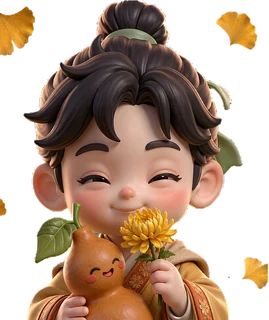
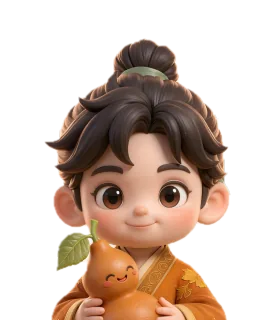
v119: 药童四季皮肤换为可灵AI新图;删四季动作图(约4MB)改复用经典动图;空闲预载优化换肤卡顿

diff --git a/common.js b/common.js
@@ -1842,17 +1842,19 @@ function mountPage(p){
 }
 function go(p){location.href=(p==="home"?"index":p)+".html";}
 
-/* ===== 小药童：春夏秋冬装束 + 每套专属待机 / 互动动作 + 点击互动 ===== */
+/* ===== 小药童：经典 + 春夏秋冬四季换装（AI 换装静图，点击互动共用经典动作） ===== */
 (function(){
-  /* 五套装束：经典为初见默认，四季各有一张待机图与一段 60 帧专属动作。
-     四季图由 .ai-build/gen-mascot-skins.py 从经典原图程序化换装生成，角色完全一致。 */
+  /* 五套装束：经典为初见默认；四季是 AI 换装静图，裁成与经典相同的 269×320 半身构图，
+     显示位置 / 大小 / 头身比与原经典药童一致。v119 起删除四季各自的 60 帧动作图，
+     点击互动统一复用经典动作图 mascot-anim.webp —— 全站只剩一段动作，彻底消除换肤卡顿。 */
   const SKINS={
-    classic:{idle:"assets/mascot-idle.webp",   act:"assets/mascot-anim.webp",        name:"经典",      season:null},
-    spring: {idle:"assets/skin-spring-idle.webp",act:"assets/skin-spring-act.webp", name:"春 · 发陈", season:"春"},
-    summer: {idle:"assets/skin-summer-idle.webp",act:"assets/skin-summer-act.webp", name:"夏 · 蕃秀", season:"夏"},
-    autumn: {idle:"assets/skin-autumn-idle.webp",act:"assets/skin-autumn-act.webp", name:"秋 · 容平", season:"秋"},
-    winter: {idle:"assets/skin-winter-idle.webp",act:"assets/skin-winter-act.webp", name:"冬 · 闭藏", season:"冬"}
+    classic:{idle:"assets/mascot-idle.webp",   name:"经典",      season:null},
+    spring: {idle:"assets/skin-spring-idle.webp", name:"春 · 发陈", season:"春"},
+    summer: {idle:"assets/skin-summer-idle.webp", name:"夏 · 蕃秀", season:"夏"},
+    autumn: {idle:"assets/skin-autumn-idle.webp", name:"秋 · 容平", season:"秋"},
+    winter: {idle:"assets/skin-winter-idle.webp", name:"冬 · 闭藏", season:"冬"}
   };
+  const ACT_SRC="assets/mascot-anim.webp"; // 唯一动作素材：经典动图，五套共用
   const ACT_MS=5100; // 60帧×83ms≈5s，留一点余量
   const TIPS=[
     "上工治未病，不治已病。——《黄帝内经》",
@@ -1875,16 +1877,15 @@ function go(p){location.href=(p==="home"?"index":p)+".html";}
   const img=$("#mascot"),bubble=$("#mascotBubble"),hint=$("#mascotHint");
   if(!img)return;
   let acting=false,actTimer=null,tipTimer,hintShown=false,tipSkin=null,curSkin="classic";
-  /* 动作 WebP（每套 60 帧 / 83ms / 约 0.5-0.7MB）各自按需加载：
-     首屏只请求经典待机图，换到哪一套才取哪一段动作，绝不一次性拉四套。 */
-  const actLoaded={};
-  function preloadSkinAct(key){
-    if(actLoaded[key])return;
-    actLoaded[key]=true;
-    const pre=new Image();pre.src=SKINS[key].act;
+  /* v119 卡顿治理：四张换装静图各约 10KB，进页即全部预载 → 换肤零等待、无白闪；
+     经典动作图 516KB 在首屏渲染后空闲预载一次，全站共用，点击时已就绪。
+     不再有「悬停即拉 1MB 四季动作图」与「点击解码 60 帧」的双重卡顿。 */
+  function preloadMascotAssets(){
+    Object.keys(SKINS).forEach(k=>{const p=new Image();p.src=SKINS[k].idle;});
+    const a=new Image();a.src=ACT_SRC;
   }
-  function preloadAct(){preloadSkinAct(curSkin);}
-  if(img){img.addEventListener("pointerenter",preloadAct,{once:true});img.addEventListener("touchstart",preloadAct,{once:true});}
+  if(window.requestIdleCallback)requestIdleCallback(preloadMascotAssets,{timeout:1500});
+  else setTimeout(preloadMascotAssets,900);
 
   /* 经典 = 一键复原：药童回经典装，页面主色 / 飘落物 / 插画 / 荐读回到当令真实节气 */
   function restoreSeason(){
@@ -1914,7 +1915,7 @@ function go(p){location.href=(p==="home"?"index":p)+".html";}
     }
     syncButtons();
     tipSkin=null;                        // 换装后首次互动必出该皮肤专属金句
-    /* v98: 换肤只换图,不自动演;专属动作仅点击药童才播 */
+    /* v98/v119: 换肤只换图,不自动演;互动动作仅点击药童才播(五套共用经典动图) */
   }
   /* 新标签 / 新会话一律从经典皮肤开始；同一标签内跨页跳转沿用本次选择 */
   try{const saved=sessionStorage.getItem("bcSkin");if(saved&&SKINS[saved])curSkin=saved;}catch(e){}
@@ -1941,14 +1942,13 @@ function go(p){location.href=(p==="home"?"index":p)+".html";}
   }
   function act(auto){
     if(acting)return;
-    preloadSkinAct(curSkin);
     acting=true;
     img.classList.add("acting");
-    img.src=SKINS[curSkin].act;
+    img.src=ACT_SRC; // v119：五套互动统一复用经典动作图，不再各自加载 1MB 专属动图
     showTip();
     if(!hintShown){hint.classList.add("hide");hintShown=true;}
     actTimer=setTimeout(()=>{
-      img.src=SKINS[curSkin].idle;
+      img.src=SKINS[curSkin].idle; // 动作结束回到当前皮肤静图
       img.classList.remove("acting");
       acting=false; actTimer=null;
     },ACT_MS);

diff --git a/common.css b/common.css
@@ -346,25 +346,10 @@ html[data-season="夏"] .mascot-badge::after{content:"夏"}
 html[data-season="秋"] .mascot-badge::after{content:"秋"}
 html[data-season="冬"] .mascot-badge::after{content:"冬"}
 @keyframes breathe{0%,100%{transform:translateX(-50%) scale(1) translateY(0)}50%{transform:translateX(-50%) scale(1.025) translateY(-4px)}}
-/* ===== v42 药童春夏秋冬装束：每套专属待机律动 + 专属互动表演 ===== */
-.side-mascot[data-skin="classic"]{animation:breathe 3.2s ease-in-out infinite}
-.side-mascot[data-skin="spring"]{animation:idleSpring 2.4s ease-in-out infinite}
-.side-mascot[data-skin="summer"]{animation:idleSummer 1.8s ease-in-out infinite}
-.side-mascot[data-skin="autumn"]{animation:idleAutumn 3.8s ease-in-out infinite}
-.side-mascot[data-skin="winter"]{animation:idleWinter 4.6s ease-in-out infinite}
-@keyframes idleSpring{0%,100%{transform:translateX(-50%) rotate(-2deg) translateY(0)}50%{transform:translateX(-50%) rotate(2deg) translateY(-6px)}}
-@keyframes idleSummer{0%,100%{transform:translateX(-50%) translateY(0) scale(1)}50%{transform:translateX(-50%) translateY(-9px) scale(1.02)}}
-@keyframes idleAutumn{0%,100%{transform:translateX(-50%) rotate(1.5deg) translateY(0)}50%{transform:translateX(-50%) rotate(-1.5deg) translateY(-3px)}}
-@keyframes idleWinter{0%,100%{transform:translateX(-50%) scale(1) translateY(0)}48%,52%{transform:translateX(-50%) scale(.985) translateY(2px)}}
+/* ===== v119 四季换装统一律动：五套待机一律沿用经典 breathe，互动播放经典动图 =====
+   旧版每套专属 idleSpring/actSpring 等已删：既减少 CSS 体积，又让换肤过渡零闪跳。 */
+.side-mascot[data-skin]{animation:breathe 3.2s ease-in-out infinite}
 .side-mascot.acting{animation:none}
-.side-mascot.acting[data-skin="spring"]{animation:actSpring 1.24s ease-in-out 4}
-.side-mascot.acting[data-skin="summer"]{animation:actSummer .83s ease-in-out 6}
-.side-mascot.acting[data-skin="autumn"]{animation:actAutumn 1.66s ease-in-out 3}
-.side-mascot.acting[data-skin="winter"]{animation:actWinter 2.49s ease-in-out 2}
-@keyframes actSpring{0%,100%{transform:translateX(-50%) translateY(0) rotate(0)}25%{transform:translateX(-50%) translateY(-14px) rotate(-4deg)}75%{transform:translateX(-50%) translateY(-6px) rotate(4deg)}}
-@keyframes actSummer{0%,100%{transform:translateX(-50%) rotate(-5deg)}50%{transform:translateX(-50%) rotate(5deg)}}
-@keyframes actAutumn{0%,100%{transform:translateX(-50%) rotate(0) scale(1)}50%{transform:translateX(-50%) rotate(7deg) scale(1.03)}}
-@keyframes actWinter{0%,100%{transform:translateX(-50%) scale(1) translateY(0)}50%{transform:translateX(-50%) scale(.96) translateY(3px)}}
 @media(prefers-reduced-motion:reduce){.side-mascot,.side-mascot.acting{animation:none!important}}
 .season-bar .skin-classic{width:auto;height:34px;padding:0 13px;border-radius:999px;font-size:14.5px;letter-spacing:1px;white-space:nowrap}
 .season-bar .skin-classic.on{background:var(--red);border-color:var(--red);color:#FBF7EC;box-shadow:0 3px 10px rgba(166,62,40,.22)}

diff --git a/index.html b/index.html
@@ -77,7 +77,7 @@
         <button data-s="夏" onclick="setSeason('夏')">夏</button>
         <button data-s="秋" onclick="setSeason('秋')">秋</button>
         <button data-s="冬" onclick="setSeason('冬')">冬</button>
-        <span>初见是经典药童 · 点季名同步更衣换装，各有专属动作 · 点「经典」复原</span>
+        <span>初见是经典药童 · 点季名同步更衣换装，点药童即可互动 · 点「经典」复原</span>
         <a class="four-entry" href="seasons.html">◈ 四时调神 · 顺岁而养 →</a>
       </div>
     </div>
